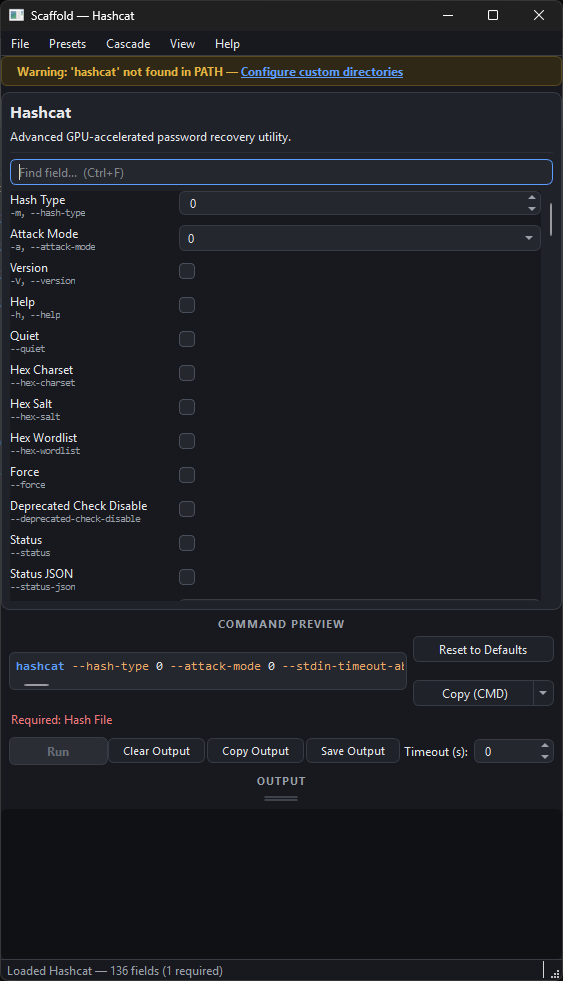
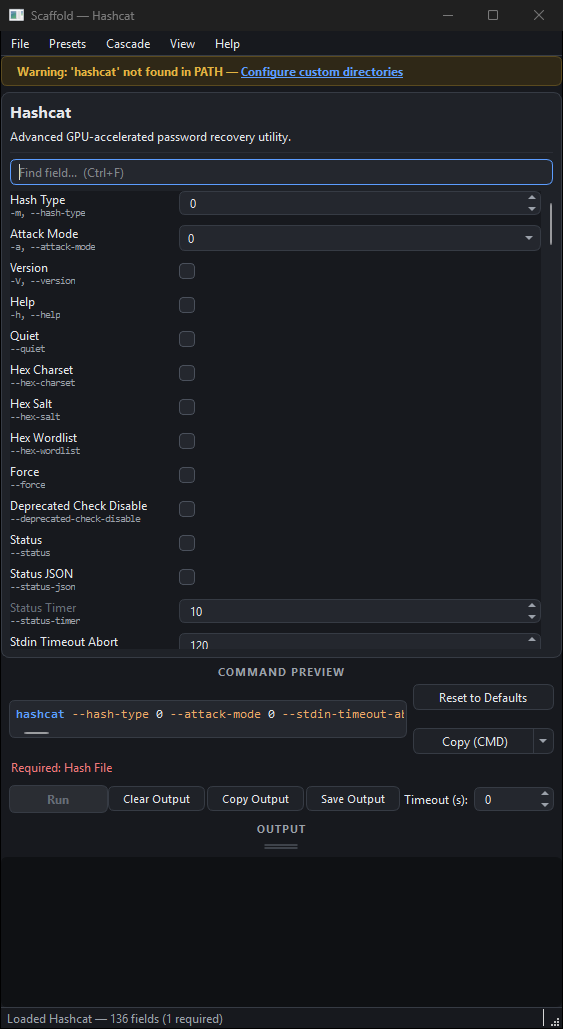
Update the README for v2.14.0 and retake its screenshots
- Install commands pin v2.14.0.
- New: light/dark themes, flag labels, the run summary,
  SCAFFOLD_SETTINGS_FILE, and the batch-file and plain-text hardening.
- Additional Flags parsing describes the Windows backslash rule.
- Badges and the security-suite count are current.
- Screenshots retaken with PrintWindow, so covering windows can't leak in.
  nmap and hashcat are both 563x1029, so the side-by-side pair matches.
  The cascade shot is 852x990, the narrowest the window now goes.
  The runs are staged; no scan ran.

diff --git a/README.md b/README.md
@@ -5,8 +5,8 @@ Scaffold: Your CLI Tools, but with Buttons
 ![Python 3.10+](https://img.shields.io/badge/python-3.10%2B-3776AB?logo=python&logoColor=white)
 ![PySide6](https://img.shields.io/badge/GUI-PySide6-41CD52?logo=qt&logoColor=white)
 ![Single File](https://img.shields.io/badge/architecture-single%20file-blue)
-![Lines of Code](https://img.shields.io/badge/lines-12%2C200%2B-informational)
-![Tests](https://img.shields.io/badge/tests-4%2C045%20assertions-brightgreen)
+![Lines of Code](https://img.shields.io/badge/lines-12%2C900%2B-informational)
+![Tests](https://img.shields.io/badge/tests-4%2C137%20assertions-brightgreen)
 ![Test Suites](https://img.shields.io/badge/test%20suites-6-brightgreen)
 ![Bundled Tools](https://img.shields.io/badge/bundled%20tools-28%20schemas-orange)
 ![No Shell](https://img.shields.io/badge/shell%3DTrue-never-critical)
@@ -17,7 +17,7 @@ Scaffold turns command-line tools into desktop GUIs. You describe a tool's flags
 
 When a tool fits the flag/positional/subcommand model and the schema describes it accurately, the form ends up nicer to use than the CLI itself. Every flag is on screen, every value has the right type, and bad input gets caught before anything runs. The schema is what makes or breaks that, so the more precise it is, the better the form. Tools that depend on interactive prompts, terminal detection or piped stdin don't fit as well. See [Limitations](#limitations).
 
-Nothing runs through a shell. Every command goes through PySide6's QProcess with its arguments passed as a list, so there's never a command string for anything to parse. Pipes, semicolons and backticks in a schema or in user input stay literal characters, because no shell ever sees them, and an injected `; rm -rf ~` has nothing to run in. The security suite (243 assertions) checks this, and you can run it yourself with `python test_security.py`. Output streams into the app live, a history window keeps past runs, and you can copy or save any output.
+Nothing runs through a shell. Every command goes through PySide6's QProcess with its arguments passed as a list, so there's never a command string for anything to parse. Pipes, semicolons and backticks in a schema or in user input stay literal characters, because no shell ever sees them, and an injected `; rm -rf ~` has nothing to run in. The security suite (271 assertions) checks this, and you can run it yourself with `python test_security.py`. Output streams into the app live, a history window keeps past runs, and you can copy or save any output.
 
 You don't need a famous tool for this to be useful. If your team has a deploy script, a migration tool or a build script with 30 flags nobody remembers, write a schema for it and everyone gets a GUI. Big tools work too. The bundled curl schema has 271 arguments.
 
@@ -45,7 +45,7 @@ It's a single Python file with one dependency (PySide6). There's no telemetry an
 ### Quick install
 
 ```bash
-pip install git+https://github.com/kevwillow/scaffold.git@v2.13.1
+pip install git+https://github.com/kevwillow/scaffold.git@v2.14.0
 ```
 
 This installs `scaffold` as a shell command. Launch the GUI with:
@@ -60,7 +60,7 @@ scaffold
 environment so they don't conflict with your system Python:
 
 ```bash
-pipx install git+https://github.com/kevwillow/scaffold.git@v2.13.1
+pipx install git+https://github.com/kevwillow/scaffold.git@v2.14.0
 ```
 
 ### From source (for development)
@@ -107,6 +107,13 @@ and Scaffold keeps its settings in a local `scaffold.ini` in the script
 folder instead of the system settings store. Good for USB sticks or fully
 isolated installs.
 
+### Settings in a file of your choice
+
+Set the `SCAFFOLD_SETTINGS_FILE` environment variable to the path of an INI
+file and Scaffold keeps its settings there instead. It takes precedence over
+portable mode, and works for pip installs too. It's handy for a throwaway
+profile, and it's how the test suites stay away from your real settings.
+
 ---
 
 ## Getting Started
@@ -134,7 +141,7 @@ python scaffold.py
 
 The tool picker lists every schema it finds, both the bundled ones and anything in your own `tools/` folder, including subfolders. Subfolders show up at the top as collapsible groups. A green checkmark means the tool is installed and ready; a red X means Scaffold couldn't find it on your PATH. Double-click a tool to open its form, fill it in and hit **Run**.
 
-> **Tip:** Toggle dark mode with **Ctrl+D** or from the **View > Theme** menu.
+> **Tip:** Switch between the light and dark themes with **Ctrl+D**, or pick one (or follow your system) under **View > Theme**.
 
 > **Linux note:** On some distros (Ubuntu 24.04 and later), `pip install PySide6` fails because the system Python is externally managed. Use a virtual environment: `python3 -m venv .venv && source .venv/bin/activate && pip install PySide6`. You may also need `sudo apt install libxcb-cursor0` for the Qt platform plugin.
 
@@ -150,7 +157,9 @@ To open a specific tool directly: `python scaffold.py scaffold_data/tools/nmap.j
 - **Typed input constraints**: widgets validate values as you enter them
 - **LLM-powered schema generation**: paste SCHEMA_PROMPT.txt and the tool's docs into an LLM, get a schema back
 - **Syntax-colored command preview**: a live preview with color-coded tokens
-- **Process execution**: run, stop, search the output, copy or save the results
+- **Light and dark themes**: a clean, modern look in both, following your system or set from View > Theme (Ctrl+D)
+- **Flags at a glance**: every field shows the real CLI flag under its name, so the form doubles as a cheat sheet
+- **Process execution**: run, stop, search the output, copy or save the results, with the exit code, run time and line count shown above the output
 - **10 widget types**: checkbox, text, spinbox, dropdown, file picker, password with show/hide, and more
 - **Subcommand support**: multi-level commands like `git clone` or `ansible-galaxy role install`
 - **Command history**: browse and restore past runs per tool (Ctrl+H), with a filter bar
@@ -260,7 +269,7 @@ Every schema's `binary` field is checked when the schema loads. Shell metacharac
 
 Every argument goes through a typed widget that limits what you can enter. A port number comes from a spin box with set bounds instead of a free-text field. Enum values come from a dropdown with a fixed list. Booleans are checkboxes, and files and folders use the native picker dialogs. Most malformed input never happens, because the form won't let you type it.
 
-The **Additional Flags** box is the only free-text path onto the command line. It splits your text with `shlex.split()`, highlights problems like unclosed quotes, and hands the resulting tokens to `QProcess` as separate list items. They're never joined back into a shell string.
+The **Additional Flags** box is the only free-text path onto the command line. It splits your text the way a POSIX shell would (on Windows, backslashes stay literal so paths like `C:\temp\out.txt` work), highlights problems like unclosed quotes, and hands the resulting tokens to `QProcess` as separate list items. They're never joined back into a shell string.
 
 ### No dynamic code execution
 
@@ -275,6 +284,8 @@ Scaffold makes zero network calls. There's no telemetry, no update check, no ana
 - **Atomic writes**: presets, autosave and cascade files are written to a temp file and then renamed into place, so a crash mid-write can't leave a half-written file behind
 - **Password masking**: password values are masked in the command preview, the output panel, history entries and the clipboard, and copying a command that contains a password asks you first
 - **Capture injection guard**: if a cascade capture resolves to something that looks like a flag, Scaffold catches it, and with stop-on-error on it halts the chain so the value can't be read as an option
+- **Batch files on Windows**: Windows runs `.bat` and `.cmd` files through cmd.exe, which re-reads their arguments, so Scaffold refuses arguments to them that contain cmd.exe command characters (`& | < > ^ % ! " ( )`)
+- **File text shown as text**: names and descriptions from schema, preset and cascade files are always displayed literally, never as HTML
 - **Path checks on shared cascade files**: a cascade can't reach outside your Scaffold folders with `..`, and the check treats `\` and `/` the same way, so a file gets the same verdict on Windows, Linux and macOS
 
 ### Verify it yourself
@@ -314,7 +325,7 @@ The preview shows the exact command as you change fields, with the binary, flags
 
 ### Process execution
 
-Run commands right from the GUI. Output is colored, with stdout and stderr in different colors, and you get exit codes and timestamps. The output panel is searchable (Ctrl+Shift+F), and you can copy it or save it to a file. ANSI escape codes are stripped out. Stopping a process sends SIGTERM first and falls back to SIGKILL if it doesn't exit. You can also set an auto-kill timeout per tool.
+Run commands right from the GUI. Output is colored, with stdout and stderr in different colors, and you get exit codes and timestamps. The output panel is searchable (Ctrl+Shift+F), and you can copy it or save it to a file. ANSI escape codes are stripped out. Stopping a process sends SIGTERM first and falls back to SIGKILL if it doesn't exit. You can also set an auto-kill timeout per tool. When a run ends, the Output header shows how it went: the exit code (or stopped, timed out or crashed), how long it ran and how many lines it printed.
 
 ### 10 widget types
 
@@ -397,7 +408,7 @@ The main use is script-based tools. Write a schema with `"binary": "myscript.py"
 | **Ctrl+R** | Reload current tool |
 | **Ctrl+F** | Focus field search bar |
 | **Ctrl+Shift+F** | Search within output panel |
-| **Ctrl+D** | Toggle dark mode |
+| **Ctrl+D** | Switch between light and dark themes |
 | **Ctrl+G** | Toggle cascade panel |
 | **Ctrl+B** | Tool list |
 | **Ctrl+Q** | Quit |
